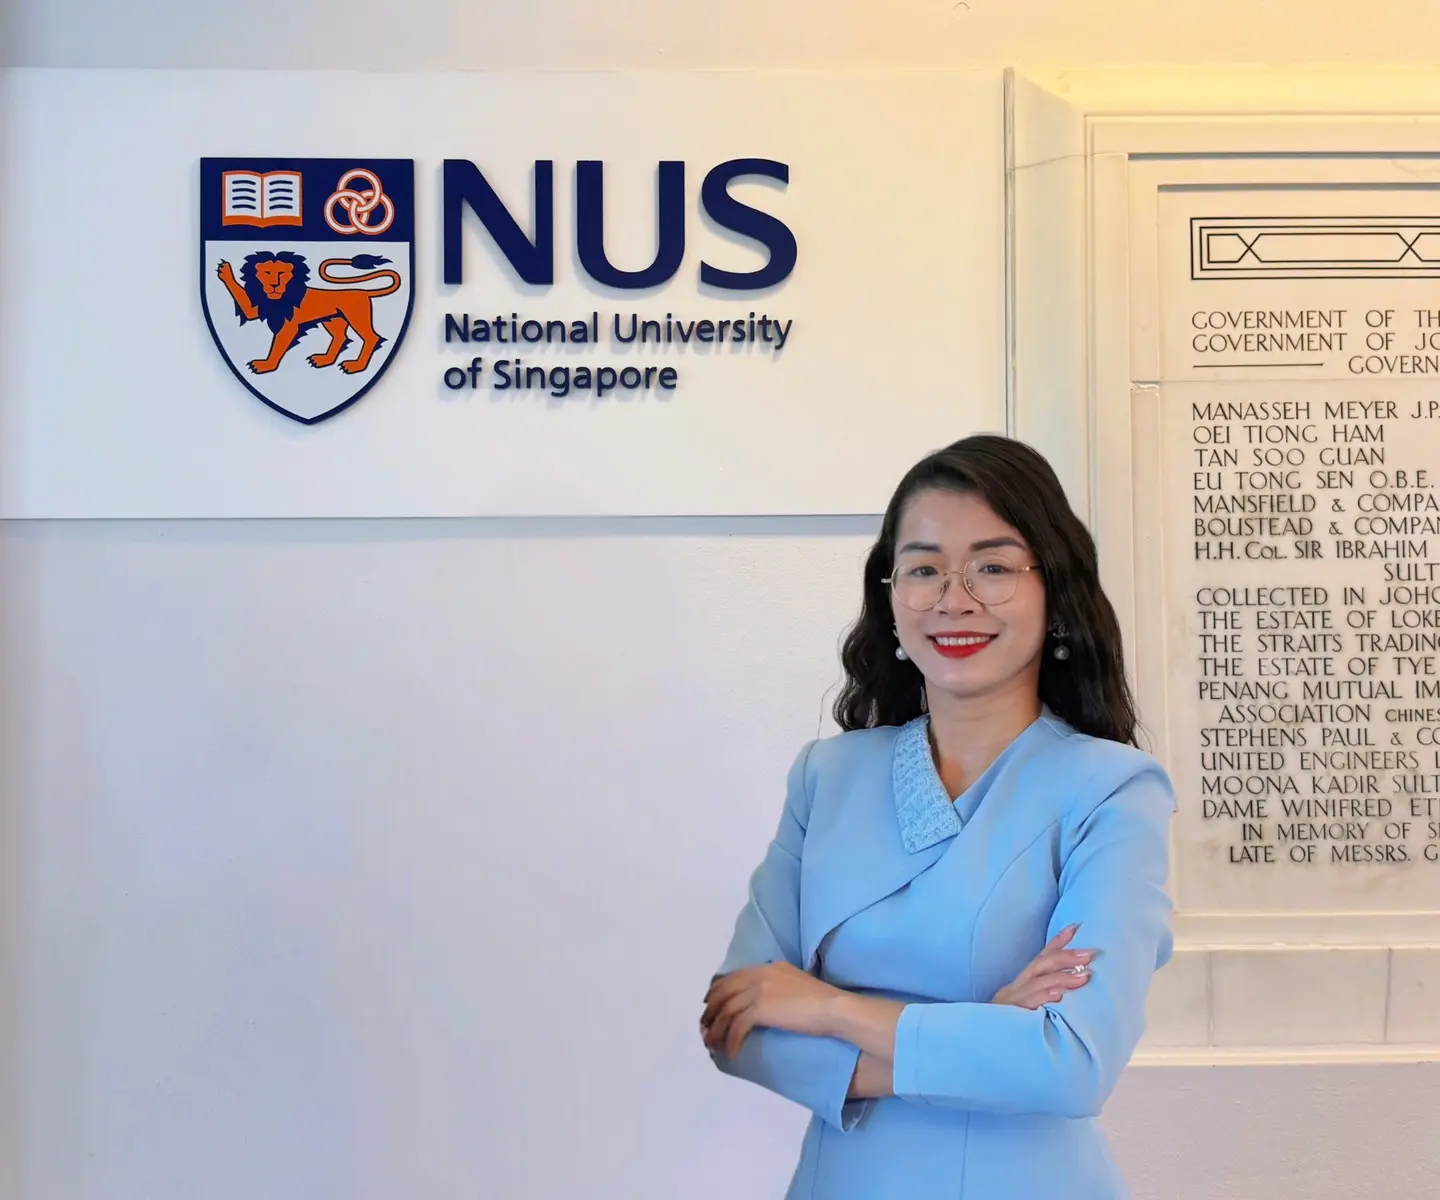
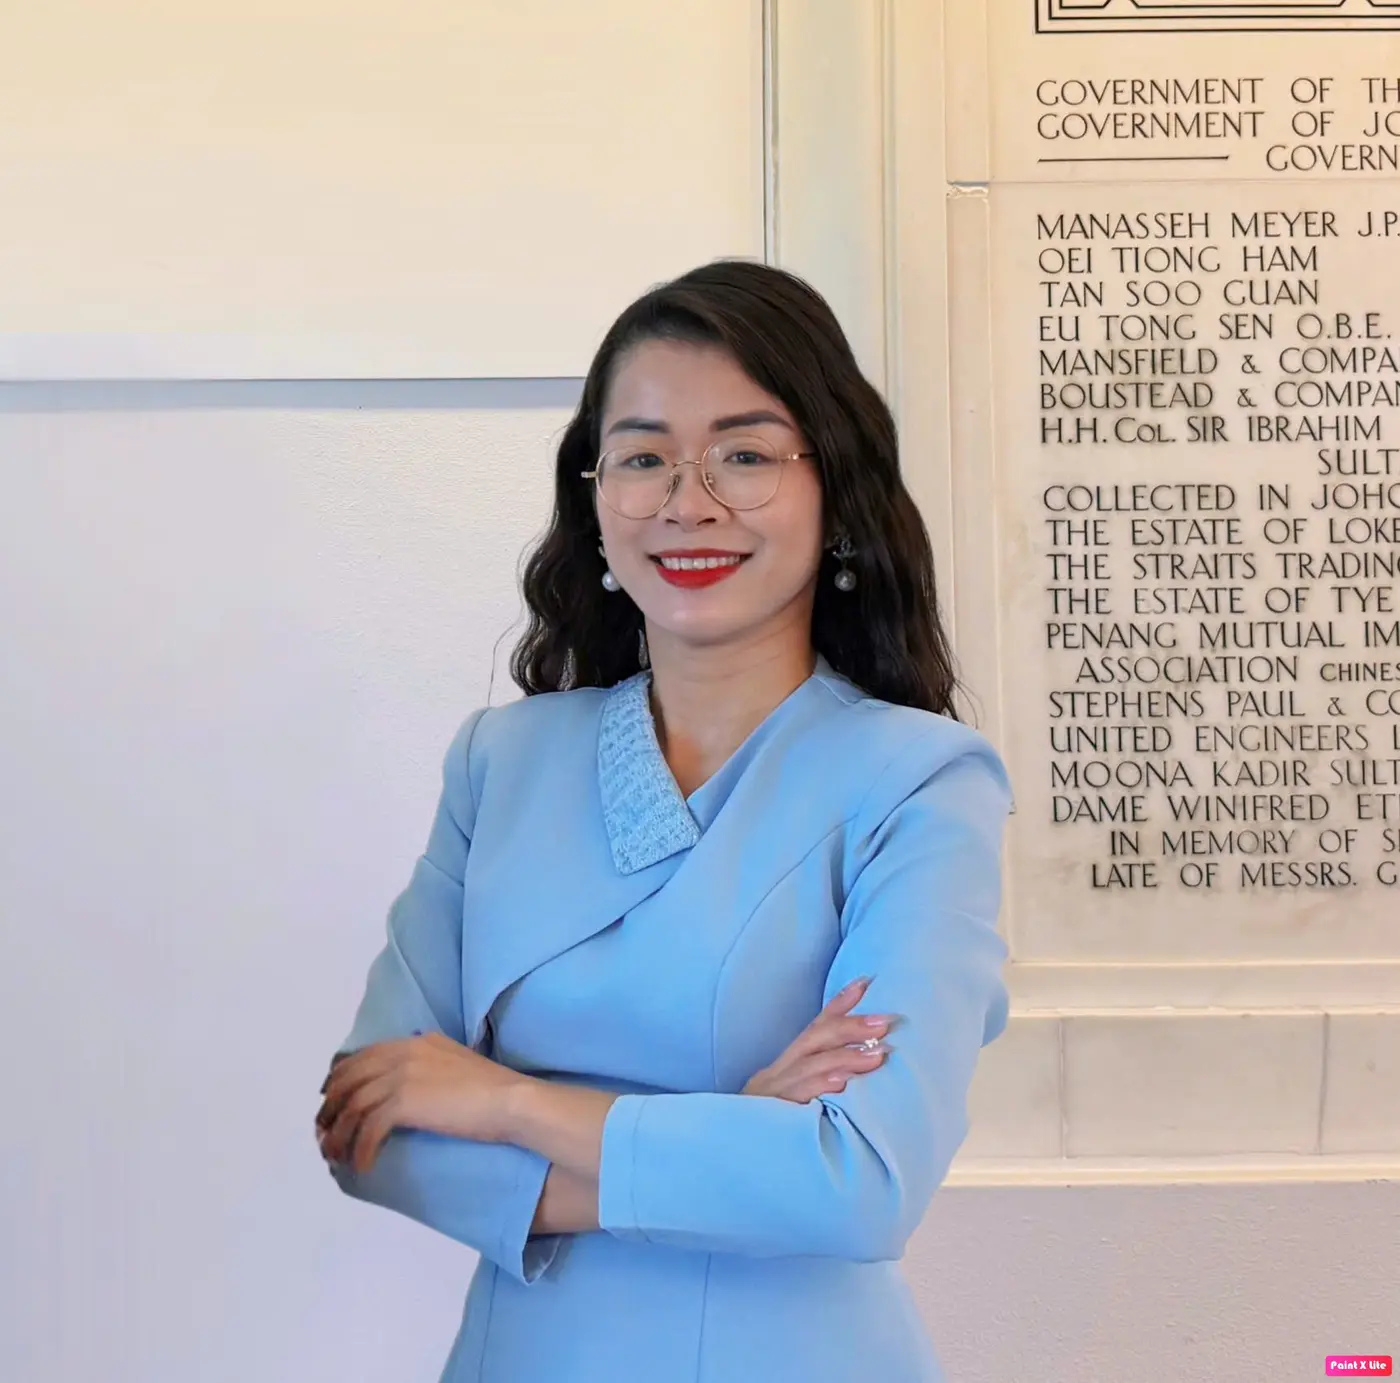
Enlarge author photo and update volunteer portrait

diff --git a/index.html b/index.html
@@ -142,9 +142,9 @@
   .report-media iframe{position:absolute;inset:0;width:100%;height:100%;border:0}
   .report-copy{display:flex;flex-direction:column;justify-content:center;padding:4px 6px}.report-copy h3{margin:8px 0;color:var(--dark);font-size:19px;line-height:1.4}.report-copy p{font-size:13.5px;color:#3d4d54}.report-source{font-size:12px;font-weight:800;color:var(--teal)}
   .report-label{align-self:flex-start;background:var(--gold);color:#3a2a06;font-size:11px;font-weight:900;letter-spacing:.7px;text-transform:uppercase;padding:4px 10px;border-radius:20px}
-  .author-card{display:grid;grid-template-columns:190px minmax(0,1fr);align-items:center;gap:4px;background:#fff;border:1px solid var(--bd);border-radius:16px;padding:24px;margin-top:14px}
-  .author-card img{width:160px;height:160px;margin:auto;border-radius:50%;object-fit:cover;object-position:78% 48%;display:block;border:5px solid #e7eef0;box-shadow:0 4px 14px rgba(14,77,100,.14)}.author-copy{padding:4px 10px 4px 20px}.author-label{color:var(--gold-d);font-size:11px;font-weight:900;letter-spacing:1px;text-transform:uppercase}.author-copy h3{margin:5px 0 8px;color:var(--dark);font-size:24px}.author-roles{margin:0 0 15px;padding:0;list-style:none}.author-roles li{font-size:13.5px;font-weight:700;font-style:italic;color:var(--teal);margin:3px 0}.author-quote{margin:0;color:#33454c;font-size:14px;font-style:italic;line-height:1.7}
-  @media(max-width:760px){.report-feature,.author-card{grid-template-columns:1fr}.author-card{padding:20px}.author-card img{width:145px;height:145px}.author-copy{padding:12px 0 0;text-align:center}.author-roles{text-align:center}.author-quote{text-align:left}}
+  .author-card{display:grid;grid-template-columns:minmax(320px,.9fr) minmax(0,1.1fr);align-items:stretch;background:#fff;border:1px solid var(--bd);border-radius:16px;overflow:hidden;margin-top:14px}
+  .author-card img{width:100%;height:100%;min-height:390px;object-fit:cover;object-position:center;display:block}.author-copy{padding:28px;display:flex;flex-direction:column;justify-content:center}.author-label{color:var(--gold-d);font-size:11px;font-weight:900;letter-spacing:1px;text-transform:uppercase}.author-copy h3{margin:5px 0 8px;color:var(--dark);font-size:24px}.author-roles{margin:0 0 15px;padding:0;list-style:none}.author-roles li{font-size:13.5px;font-weight:700;font-style:italic;color:var(--teal);margin:3px 0}.author-quote{margin:0;color:#33454c;font-size:14px;font-style:italic;line-height:1.7}
+  @media(max-width:760px){.report-feature,.author-card{grid-template-columns:1fr}.author-card img{aspect-ratio:1/1;min-height:0;max-height:430px}.author-copy{padding:22px}}
   footer{background:var(--dark);color:#cfe0e5;font-size:13px;text-align:center;padding:20px;margin-top:30px}
   @media(max-width:720px){.kpis{grid-template-columns:repeat(2,1fr)}.hero h1{font-size:26px}}
   .join-fab{position:fixed;right:18px;bottom:18px;z-index:80;background:var(--gold);color:#3a2a06;border:0;font:inherit;font-weight:800;font-size:14px;padding:12px 18px;border-radius:30px;box-shadow:0 4px 14px rgba(0,0,0,.22);cursor:pointer;display:flex;align-items:center;gap:8px;animation:fabpulse 2.6s ease-in-out infinite}
